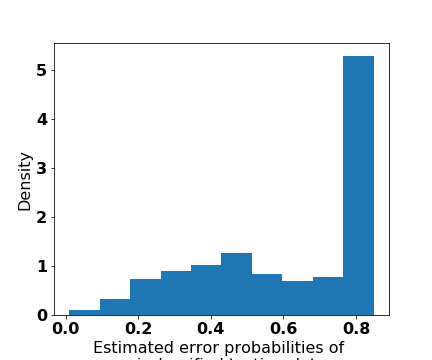
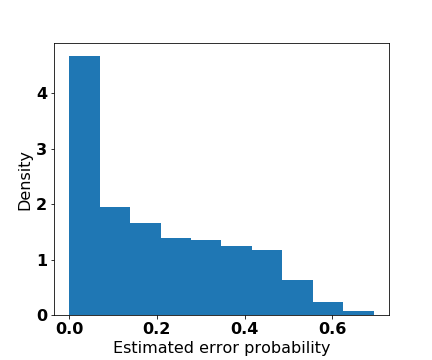
new figures

diff --git a/python/ssl_mar/plot.py b/python/ssl_mar/plot.py
@@ -65,7 +65,7 @@ def plot_labeled_unlabeled(z_labeled, y_labeled, z_unlabeled):
     plt.xlim([-6, 6])
     plt.ylim([-6, 6])
     plt.colorbar(ticks=[0,1,2,3,4,5,6,7,8,9])
-    plt.title('Labeled and unlabeled data')
+#    plt.title('Labeled and unlabeled data')
     plt.savefig("train_data.png")
     
 def plot_maxlrt(z_unlabeled, lrt_y): 
@@ -76,7 +76,7 @@ def plot_maxlrt(z_unlabeled, lrt_y):
     plt.xlim([-6, 6])
     plt.ylim([-6, 6])
     plt.colorbar()
-    plt.title('LRT for unlabeled data')   
+#    plt.title('LRT for unlabeled data')   
     plt.savefig("lrt.png")
     
 def plot_marginallrt(z_unlabeled, lrt_y): 
@@ -128,8 +128,8 @@ def plot_test(z_test, y_test_hat, y_test, pe_test):
     plt.ylabel("z[1]")
     plt.xlim([-6, 6])
     plt.ylim([-6, 6])
-    plt.title('Estimated error probability')
-    plt.savefig("estimated_pe_2.png")
+#    plt.title('Estimated error probability')
+    plt.savefig("estimated_pe.png")
     
 #    z_test_errors = z_test[index_errors, :]
 #    plt.figure(figsize=(6, 5))
@@ -144,9 +144,9 @@ def plot_test(z_test, y_test_hat, y_test, pe_test):
     
     plt.figure(figsize=(6, 5))
     plt.hist(pe_test[index_errors[0]], density=True)
-    plt.xlabel("Estimated error probabilities of \n misclassified testing data")
+    plt.xlabel("Estimated error probability")
     plt.ylabel("Density")
-    plt.savefig("density_pe_2.png")
+    plt.savefig("density_pe.png")
     
 def plot_topn_pe(x_test, z_test, y_test_hat, y_test, pe_test, decoder, topn):
     n = topn  # Top error probalities
